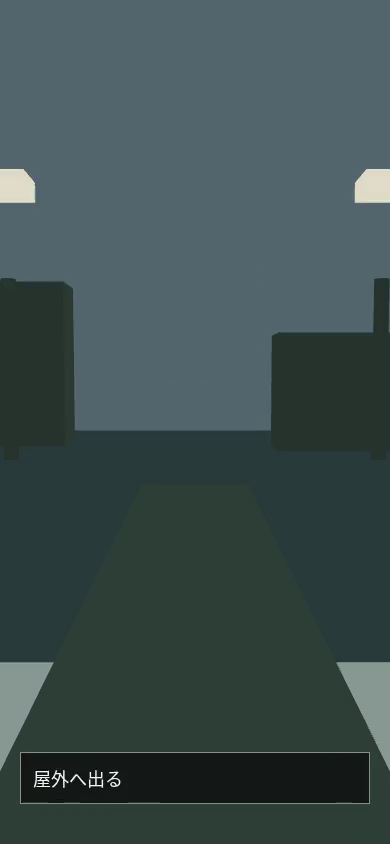
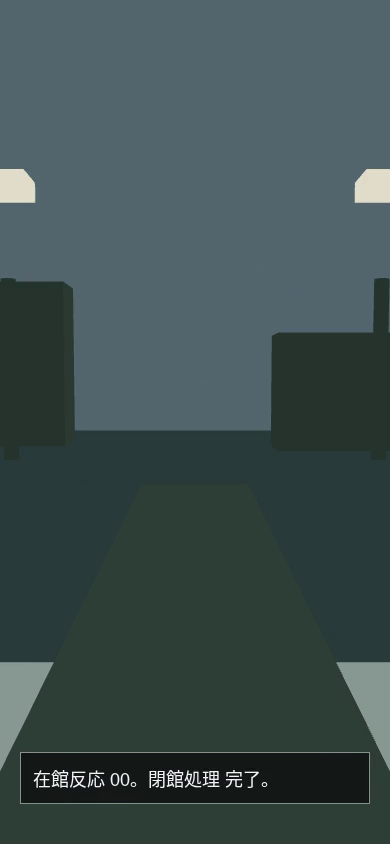
test: show accepted outdoor completion in finale QA videos

Changed region(s): [[0.0923, 0.8934, 0.3385, 0.955], [0.3692, 0.8934, 0.6154, 0.955], [0.6462, 0.8934, 0.6769, 0.9242]]

diff --git a/docs/qa-goal013/README.md b/docs/qa-goal013/README.md
@@ -1,16 +1,22 @@
 # Goal 013 動的QAの記録
 
+## 2026-09-13 05退館動画の完了表示
+
+05の旧単独動画は屋外を映していたが、受理後の最後のQA字幕が「屋外へ出る」のままで、実commandの完了feedbackを映像で読めなかった。現在の `scripts/qa-departure-natural.cjs` は受理後にcameraを同期し、歩いた位置からの不意な移動がないことと、実 `feedbackMessage` に `在館反応 00`・`閉館処理 完了` があることを検査する。commandの「屋外へ出る」frameに続け、同じsimulation状態を進めず実feedbackを9枚・0.9秒保持する。字幕はQA合成であり製品HUDではない。
+
[1 lines of base64/hex data omitted]
+
 ## 2026-09-13 同一Appの01→05動作ログと屋外到達
 
 [App経路report](app-scene-walkthrough-report.json)と[中間動作ログ](app-scene-walkthrough-motion-trace.json)を同じ製品ソースで再生成した。一つの `App` mountで各エリアに実際にmountされた `FirstPersonScreen` controllerを自然入力で01→05へ進め、5回の保存遷移を通した。入口・完了の[scene/HUD 10枚と結末1枚](app-scene-walkthrough-contact.png)も同じcontrollerから再撮影した。[画像・report・ログのSHA-256](app-scene-walkthrough-artifacts.json)と[WebGL計測](app-scene-walkthrough-webgl.json)を保持する。
 
 ログは各controller更新の6回ごとと入口・完了を採り、5エリア計8,794更新、1,474 sample、約146.5秒のsimulationを記録した。各エリア内の時刻とtickは単調で、非有限の位置差はなく、隣接sampleのplayer最大移動は0.215m（検査上限0.25m）、actor最大移動は0.235m。保存済みprefixは1→5、revisionは3→5→7→8→14、最終 `campaignCompleted=true`、7つの必須物語beatが発火・提示済み。Canvas mock境界の同時ownerは最大1、unmount後0だった。sample間の個別commandや描画frameをすべて記録したものではない。
 
[2 lines of base64/hex data omitted]
 
 このAppログは一続きの**domain/pose/actor/保存遷移の記録**であり、scene/HUDは入口・完了の11静止画だけである。05動画も単独実行で、5本をつないだApp動画ではない。AsyncStorageは隔離メモリ、native Canvas/ready/audioはstub、描画はbrowser Software WebGL/CSSであり、実機Yoga/EXGL・実指・実音・鏡像・iPhone性能や恐怖の受入は未確認。04の静止画に平面鏡render targetは含まれず、反射は別の鏡動画に限って観察した。
 
[2 lines of base64/hex data omitted]
 
[1 lines of base64/hex data omitted]
 
@@ -48,15 +54,15 @@
 
 04の出口は、修正前の録画では黒い背景と汎用の四角い装置meshだけだった。実sceneに制御室前室の床・壁・天井・扉・灯りを加え、出口の照準・commandはworldに残したまま汎用meshを描かない。[控えめ経路の最終frame](mirror-natural-exit.png)と[標準復帰経路の最終frame](mirror-standard-exit.png)を開き、格子の先で同じ館内の次区画が見えることを確認した。QA scriptは前室の扉meshがあり、出口の汎用meshがないことを検査する。これは出口の見た目と操作のSoftware WebGL検証であり、画面に見える前室の奥までプレイヤーが歩くことや、iPhone上の明るさ・視認性を証明しない。
 
-05単独の自然成功記録： [18.7秒の動画](departure-natural.mp4)、[1秒ごとの接触シート](departure-natural-contact.png)、[鍵の設置前](departure-key-before.png)、[鍵の挿入途中](departure-key-inserting.png)、[鍵の設置後](departure-key-seated.png)、[巡回体の収容](departure-contained.png)、[出口に近づく視界](departure-outdoor-approach.png)、[屋外へ出た視界](departure-outdoor.png)、[イベント・入力とsource hash](departure-natural-report.json)、[WebGL計測](departure-natural-webgl.json)。`node scripts/qa-departure-natural.cjs` は有効な04由来の鍵checkpointを入口とし、実controllerへの旋回・衝突付き歩行・照準・command受理で収容、停止、退館まで進む。位置やsolved bitは代入しない。鍵の設置前後と挿入中、観察窓内の巡回体、出口手前と屋外到達後の画像を抽出した。出口の先には空、遠景、地面、歩道と灯具を描き、照準対象の浮いた四角いmeshは置かない。出口のinteractableとcommandは実worldに残る。実 `StageScene` をReact hostで組み立て、ブラウザーSoftware WebGLで描画した。字幕帯はQA用合成ラベルで製品HUDではない。390×844、10fps、187枚、simulation 13.95秒。最大49 draw calls/3,584 triangles、終了時geometries/textures 0、renderer 1、browser errors 0。反射pass、iPhone FPS、音、native Canvasは対象外。
+05単独の自然成功記録： [19.6秒の動画](departure-natural.mp4)、[2秒ごとと最終frameの接触シート](departure-natural-contact.png)、[鍵の設置前](departure-key-before.png)、[鍵の挿入途中](departure-key-inserting.png)、[鍵の設置後](departure-key-seated.png)、[巡回体の収容](departure-contained.png)、[出口に近づく視界](departure-outdoor-approach.png)、[屋外へ出た視界](departure-outdoor.png)、[イベント・入力とsource hash](departure-natural-report.json)、[WebGL計測](departure-natural-webgl.json)。`node scripts/qa-departure-natural.cjs` は有効な04由来の鍵checkpointを入口とし、実controllerへの旋回・衝突付き歩行・照準・command受理で収容、停止、退館まで進む。位置やsolved bitは代入しない。鍵の設置前後と挿入中、観察窓内の巡回体、出口手前と屋外到達後の画像を抽出した。出口の先には空、遠景、地面、歩道と灯具を描き、照準対象の浮いた四角いmeshは置かない。出口のinteractableとcommandは実worldに残る。実 `StageScene` をReact hostで組み立て、ブラウザーSoftware WebGLで描画した。字幕帯はQA用合成ラベルで製品HUDではない。390×844、10fps、196枚（末尾9枚はQA完了字幕の静止保持）、simulation 13.95秒。最大49 draw calls/3,584 triangles、終了時geometries/textures 0、renderer 1、browser errors 0。反射pass、iPhone FPS、音、native Canvasは対象外。
 
[2 lines of base64/hex data omitted]
 
-05の入退館人数表示の `0` は、旧sceneで左下の線分がなく、右下が二重だった。線分修正後も、実controllerが記録した安全な開始位置から製品と同じ縦FOV 65・390×844のQA cameraを表示へ向けると、旧寸法では表示の横幅がNDC `-1.116〜1.095` となり左右が切れた。実sceneの表示groupを0.72倍へ縮め、全状態でNDCの左右上下が±0.9の内側に入ることを検査した。[開始位置の02](departure-attendance-spawn-02.png)、[停止後の01](departure-attendance-spawn-01.png)、[退館後の00](departure-attendance-spawn-00.png)と、[近接02](departure-attendance-02.png)、[近接01](departure-attendance-01.png)、[近接00](departure-attendance-00.png)を開き、数字全体が読めることを確認した。状態は自然成功経路のframe 0/131/186で、実sceneの可視groupの全frame切替順と線分座標も検査する。退館後の00を開始位置から見た画像はQA cameraの仮想視点であり、退館後の実プレイヤー視点ではない。[再現用script](../../scripts/qa-departure-attendance.cjs)は `node scripts/qa-departure-natural.cjs` の後に実行し、[入力・画像hash・結果](departure-attendance-report.json)を残す。自然成功・復旧の動画SHA-256は表示寸法の再修正後も同一で、各動画はplayer cameraから表示を直接見せていない。開始位置のQA cameraは手動で表示へ向けたため、製品の実旋回/HUDやiPhoneでの視認性を証明しない。
+05の入退館人数表示の `0` は、旧sceneで左下の線分がなく、右下が二重だった。線分修正後も、実controllerが記録した安全な開始位置から製品と同じ縦FOV 65・390×844のQA cameraを表示へ向けると、旧寸法では表示の横幅がNDC `-1.116〜1.095` となり左右が切れた。実sceneの表示groupを0.72倍へ縮め、全状態でNDCの左右上下が±0.9の内側に入ることを検査した。[開始位置の02](departure-attendance-spawn-02.png)、[停止後の01](departure-attendance-spawn-01.png)、[退館後の00](departure-attendance-spawn-00.png)と、[近接02](departure-attendance-02.png)、[近接01](departure-attendance-01.png)、[近接00](departure-attendance-00.png)を開き、数字全体が読めることを確認した。状態は自然成功経路のframe 0/131/186で、実sceneの可視groupの全frame切替順と線分座標も検査する。退館後の00を開始位置から見た画像はQA cameraの仮想視点であり、退館後の実プレイヤー視点ではない。[再現用script](../../scripts/qa-departure-attendance.cjs)は `node scripts/qa-departure-natural.cjs` の後に実行し、[入力・画像hash・結果](departure-attendance-report.json)を残す。当時の自然成功・復旧動画SHA-256は表示寸法の再修正後も同一で、各動画はplayer cameraから表示を直接見せていない。開始位置のQA cameraは手動で表示へ向けたため、製品の実旋回/HUDやiPhoneでの視認性を証明しない。
 
-05単独の復旧記録： [36.9秒の動画](departure-recovery.mp4)、[1秒ごとの接触シート](departure-recovery-contact.png)、[巡回体が戻る場面](departure-recovery-returning.png)、[再誘導後の収容](departure-recovery-contained.png)、[扉の閉鎖](departure-recovery-latched.png)、[イベント・入力とsource hash](departure-recovery-report.json)、[WebGL計測](departure-recovery-webgl.json)。`node scripts/qa-departure-natural.cjs --recovery` は同じ有効な鍵入口・実controller/scene経路で、全身収容前の閉扉拒否、最初のベルによる収容、閉鎖途中の手動開け直し、巡回体が区画外の通路へ戻るまでの待機、二度目のベルからの再誘導、再閉鎖・停止・屋外退館を一実行で通した。最初の拒否は実commandから「巡回体の全身が収容区画に入るのを待つ。」を返し、扉進行率は0のまま。開け直し後も進行率0・隔離falseを検査した。巡回体が区画外の `z<14.5` に戻った時刻はsimulation 20.15秒で、直前phaseは `return`。次のベルで `investigate` へ移ったことを確認してから、全身収容を再判定した。位置・AI phase・solved bitの直接代入はない。
+05単独の復旧記録： [37.8秒の動画](departure-recovery.mp4)、[4秒ごとと最終frameの接触シート](departure-recovery-contact.png)、[巡回体が戻る場面](departure-recovery-returning.png)、[再誘導後の収容](departure-recovery-contained.png)、[扉の閉鎖](departure-recovery-latched.png)、[イベント・入力とsource hash](departure-recovery-report.json)、[WebGL計測](departure-recovery-webgl.json)。`node scripts/qa-departure-natural.cjs --recovery` は同じ有効な鍵入口・実controller/scene経路で、全身収容前の閉扉拒否、最初のベルによる収容、閉鎖途中の手動開け直し、巡回体が区画外の通路へ戻るまでの待機、二度目のベルからの再誘導、再閉鎖・停止・屋外退館を一実行で通した。最初の拒否は実commandから「巡回体の全身が収容区画に入るのを待つ。」を返し、扉進行率は0のまま。開け直し後も進行率0・隔離falseを検査した。巡回体が区画外の `z<14.5` に戻った時刻はsimulation 20.15秒で、直前phaseは `return`。次のベルで `investigate` へ移ったことを確認してから、全身収容を再判定した。位置・AI phase・solved bitの直接代入はない。
 
[2 lines of base64/hex data omitted]
 
 最初の05動画では、受鈴器の反応frameで `scale.setScalar` が配置時の寸法を消し、大きな白い形が巡回体の上半身に重なった。受鈴器の半径・高さへ反応倍率を掛け、音源と実meshを同じ頭上の位置へ移した。今回の実scene収録では受鈴器の最下点が2.792m、巡回体の保守的な身体上端が2.24mで、同じ位置にいても上下で重ならないことを全抽出frameで検査した。更新後の[収容画像](departure-contained.png)と[閉鎖画像](departure-recovery-latched.png)を開き、身体と床灯が確認できることを観察した。これはSoftware WebGL上の観察であり、実端末の透過・明るさ・視認性の保証ではない。
 
@@ -131,7 +137,7 @@ Goal 012の同条件before/after比較と検証器は [GOAL-012-EXTENSION-PROOF]
 
 [同時表示のreport](stage-scene-hud-report.json)には計24画像のSHA-256、157読込sourceのhash、各controller pose、scene/HUDの状態と描画計測を残した。Software WebGLの主passは01が75 calls・6,304 triangles、02が60〜89 calls・1,732〜2,198 triangles、04が19〜23 calls・218〜285 triangles、05が11〜25 calls・122〜394 triangles。04の反射passは6画像で26〜27 calls、RT384×384で実行され、終了時geometry/texture 0、browser error 0。ただしこれらは鏡面を観察する視点ではなく、反射像の視認性を判定しない。Three sceneのシリアライズでは動的鏡textureを保存できないため、browser描画時に同じ `planarMirror.ts` からrender targetを作り直している。React Native host styleのbrowser CSS翻訳とSwiftShaderであり、native Yoga/EXGL/実指/実音/iPhone表示・性能の証拠ではない。
 
[2 lines of base64/hex data omitted]
 
 ## 2026-09-13 05入口とApp静止画経路
 
@@ -141,11 +147,11 @@ Goal 012の同条件before/after比較と検証器は [GOAL-012-EXTENSION-PROOF]
 
 同じApp controllerの各入口・完了状態から実 `ChapterScene` と実HUDを組み立て、各2枚と結末1枚の計11枚をSoftware WebGLとbrowser CSSで撮った。[11枚の一覧](app-scene-walkthrough-contact.png)、[画像別SHA-256](app-scene-walkthrough-artifacts.json)、[WebGL計測](app-scene-walkthrough-webgl.json)を保持した。11枚の縮小一覧を開き、05入口と[結末](app-scene-walkthrough-ending.png)を原寸で開いた。最大138 draw calls/9,866 triangles、終了時geometries/textures 0、browser error 0。元PNGは表示互換性のためFFmpegでlossless PNGへ再符号化し、元・保持画像の両hashを記録した。03完了の銘板は引き継ぎ直前の至近距離なので一部が大きく切れ、04完了では保存前の物語modalが前面に出る。これらを連続動作の視覚受入とは扱わない。
 
-11枚の間にある操作frameはscene動画として撮っていない。scene JSONは動的な平面鏡render targetを保持できず、04のこの経路の静止画は鏡像の証拠ではない。鏡の実反射と同一身体は別の `mirror-identity.mp4`、05の誘導→閉扉→停止→屋外は新しい[自然成功動画](departure-natural.mp4)と[復旧動画](departure-recovery.mp4)で確認する。両05動画は今回の入口pose後に実controller/sceneから再生成し、全frameをデコードした。自然成功187 frame・18.7秒、復旧369 frame・36.9秒。各[自然成功一覧](departure-natural-contact.png)・[復旧一覧](departure-recovery-contact.png)を開き、初期盤、収容・閉扉、屋外の変化を見た。映像以外の順序・拒否理由は各reportにある。04自然・標準復旧動画は再生成後も既存MP4とbyte一致、鏡同期比較の動画/代表静止画も同hashだった。01〜03の終端画像、既存24枚のscene/HUD画像もbyte一致で、reportの読込source hashだけ現行ソースに更新した。
+11枚の間にある操作frameはscene動画として撮っていない。scene JSONは動的な平面鏡render targetを保持できず、04のこの経路の静止画は鏡像の証拠ではない。鏡の実反射と同一身体は別の `mirror-identity.mp4`、05の誘導→閉扉→停止→屋外は新しい[自然成功動画](departure-natural.mp4)と[復旧動画](departure-recovery.mp4)で確認する。両05動画は今回の入口pose後に実controller/sceneから再生成し、全frameをデコードした。自然成功196 frame・19.6秒、復旧378 frame・37.8秒。各[自然成功一覧](departure-natural-contact.png)・[復旧一覧](departure-recovery-contact.png)を開き、初期盤、収容・閉扉、屋外の変化を見た。映像以外の順序・拒否理由は各reportにある。04自然・標準復旧動画は再生成後も既存MP4とbyte一致、鏡同期比較の動画/代表静止画も同hashだった。01〜03の終端画像、既存24枚のscene/HUD画像もbyte一致で、reportの読込source hashだけ現行ソースに更新した。
 
 このApp経路は**連続した実描画動画ではない**。native Canvas/ready/audioはstub、AsyncStorageは隔離メモリであり、browser HUDはnative Yogaの近似である。人が11枚の間の操作を連続視聴した証拠、iPhone実行、実聴、錯視や恐怖の成立、端末FPS/発熱の証拠には使わない。
 
-05動画の接触シートは、以前の `fps=1/2` / `fps=1/4` 抽出がframe 0を飛ばしていたため、自然成功は `select=not(mod(n,20))`、復旧は `select=not(mod(n,40))` で作り直した。両方ともframe 0のキー盤を含む一覧を開いた。`scripts/qa-departure-natural.cjs` は収録前の実controller snapshotで `departure-key` を取得可能と検査するようにした。両経路を再生成して全frameの動画SHA-256が保持済みMP4とbyte一致したことを確認し、reportのtool hashとローカルCPU/WebGL計測を更新した。これにより05入口の視線と後続操作の動的QAが同じ現行ソースへ結びつく。
+05動画の接触シートは、以前の `fps=1/2` / `fps=1/4` 抽出がframe 0を飛ばしていたため、自然成功は `select=not(mod(n,20))`、復旧は `select=not(mod(n,40))` で作り直した。両方ともframe 0のキー盤を含む一覧を開いた。`scripts/qa-departure-natural.cjs` は収録前の実controller snapshotで `departure-key` を取得可能と検査するようにした。この段階の両経路では、再生成MP4が当時の保持版とbyte一致した。現行版は完了字幕を追加しているため、新しいSHA-256を冒頭節に記録した。これにより05入口の視線と後続操作の動的QAが同じ現行ソースへ結びつく。
 
 ## 2026-09-13 現行02・03の通過動画
 

diff --git a/docs/RELEASE-CHAPTER-1.md b/docs/RELEASE-CHAPTER-1.md
@@ -1,5 +1,7 @@
 # 第一章の公開準備と未完了ゲート
 
+05単独の自然成功・開け直し復旧動画は、屋外操作の受理後に実controllerが返す `在館反応 00。閉館処理 完了。` をQA字幕で見せるよう再収録した。各196/378 frameで、最後の9 frame・0.9秒はsimulationを進めない静止保持。受理後もcameraが実歩行位置に残ることを検査し、全frameをデコード、最終画像を原寸で確認した。[現行動画・計測・hash](qa-goal013/README.md)を参照。製品runtimeと依存・native設定は変更しておらず、前回の両OS公開用exportと全checkの製品ソース検証が適用される。iPhone実行や正式URL・ストア申告の未完了ゲートは維持する。
+
 最新の同一App host検査では、01→05を一つのmountと5つの実controllerで進め、8,794更新／1,474 sampleの[domain動作ログ](qa-goal013/app-scene-walkthrough-motion-trace.json)、各入口・完了のscene/HUD 10枚と結末1枚、保存遷移を再取得した。05屋外完了で歩行位置が約0.58m飛ぶ不具合を直し、修正後は歩行中の位置を維持したまま完了する。cold checkpointだけは安全な屋外位置へ正規化する。[QA記録](qa-goal013/README.md)にログの範囲、画像・動画hash、Software WebGLの計測を記した。修正後の全checkはlint・型検査・110スイート/1,134テスト・通常iOS exportを通過し、両OS公開用export、first-party各201 source本文一致、5エリア同梱・開発画面除外、循環0、Doctor 21/21、Expo依存検査を[数値とbundle hash](qa-goal013/release-controls-source-checks.json)に記録した。`automatedChecksPassed=true`。sample間の描画frameはなく、一続きのApp実描画動画やnative previewの代用ではない。5エリアの実機受入が残るため `contentComplete=false`、iPhoneバイナリを実行していないため `nativePreviewVerified=false`、正式privacy/support URL・ストア申告も未完了のため `releaseReady=false` を維持する。
 
 02収蔵庫の西経路と03映写室の通常/鈴・仕切り経路を、現行製品ソースの実controller・画面・sceneから個別に動画化した。計３本の実装と入力の証拠は [QA記録](qa-goal013/README.md) にある。05動画も入口でキー盤を取得可能と検査し、接触シートを初frameから再作成した。これらは各エリアの局所動作を強める証拠であり、01→05の一続きのApp描画、実機preview、正式URL/ストア申告の未完了ゲートは変わらない。
